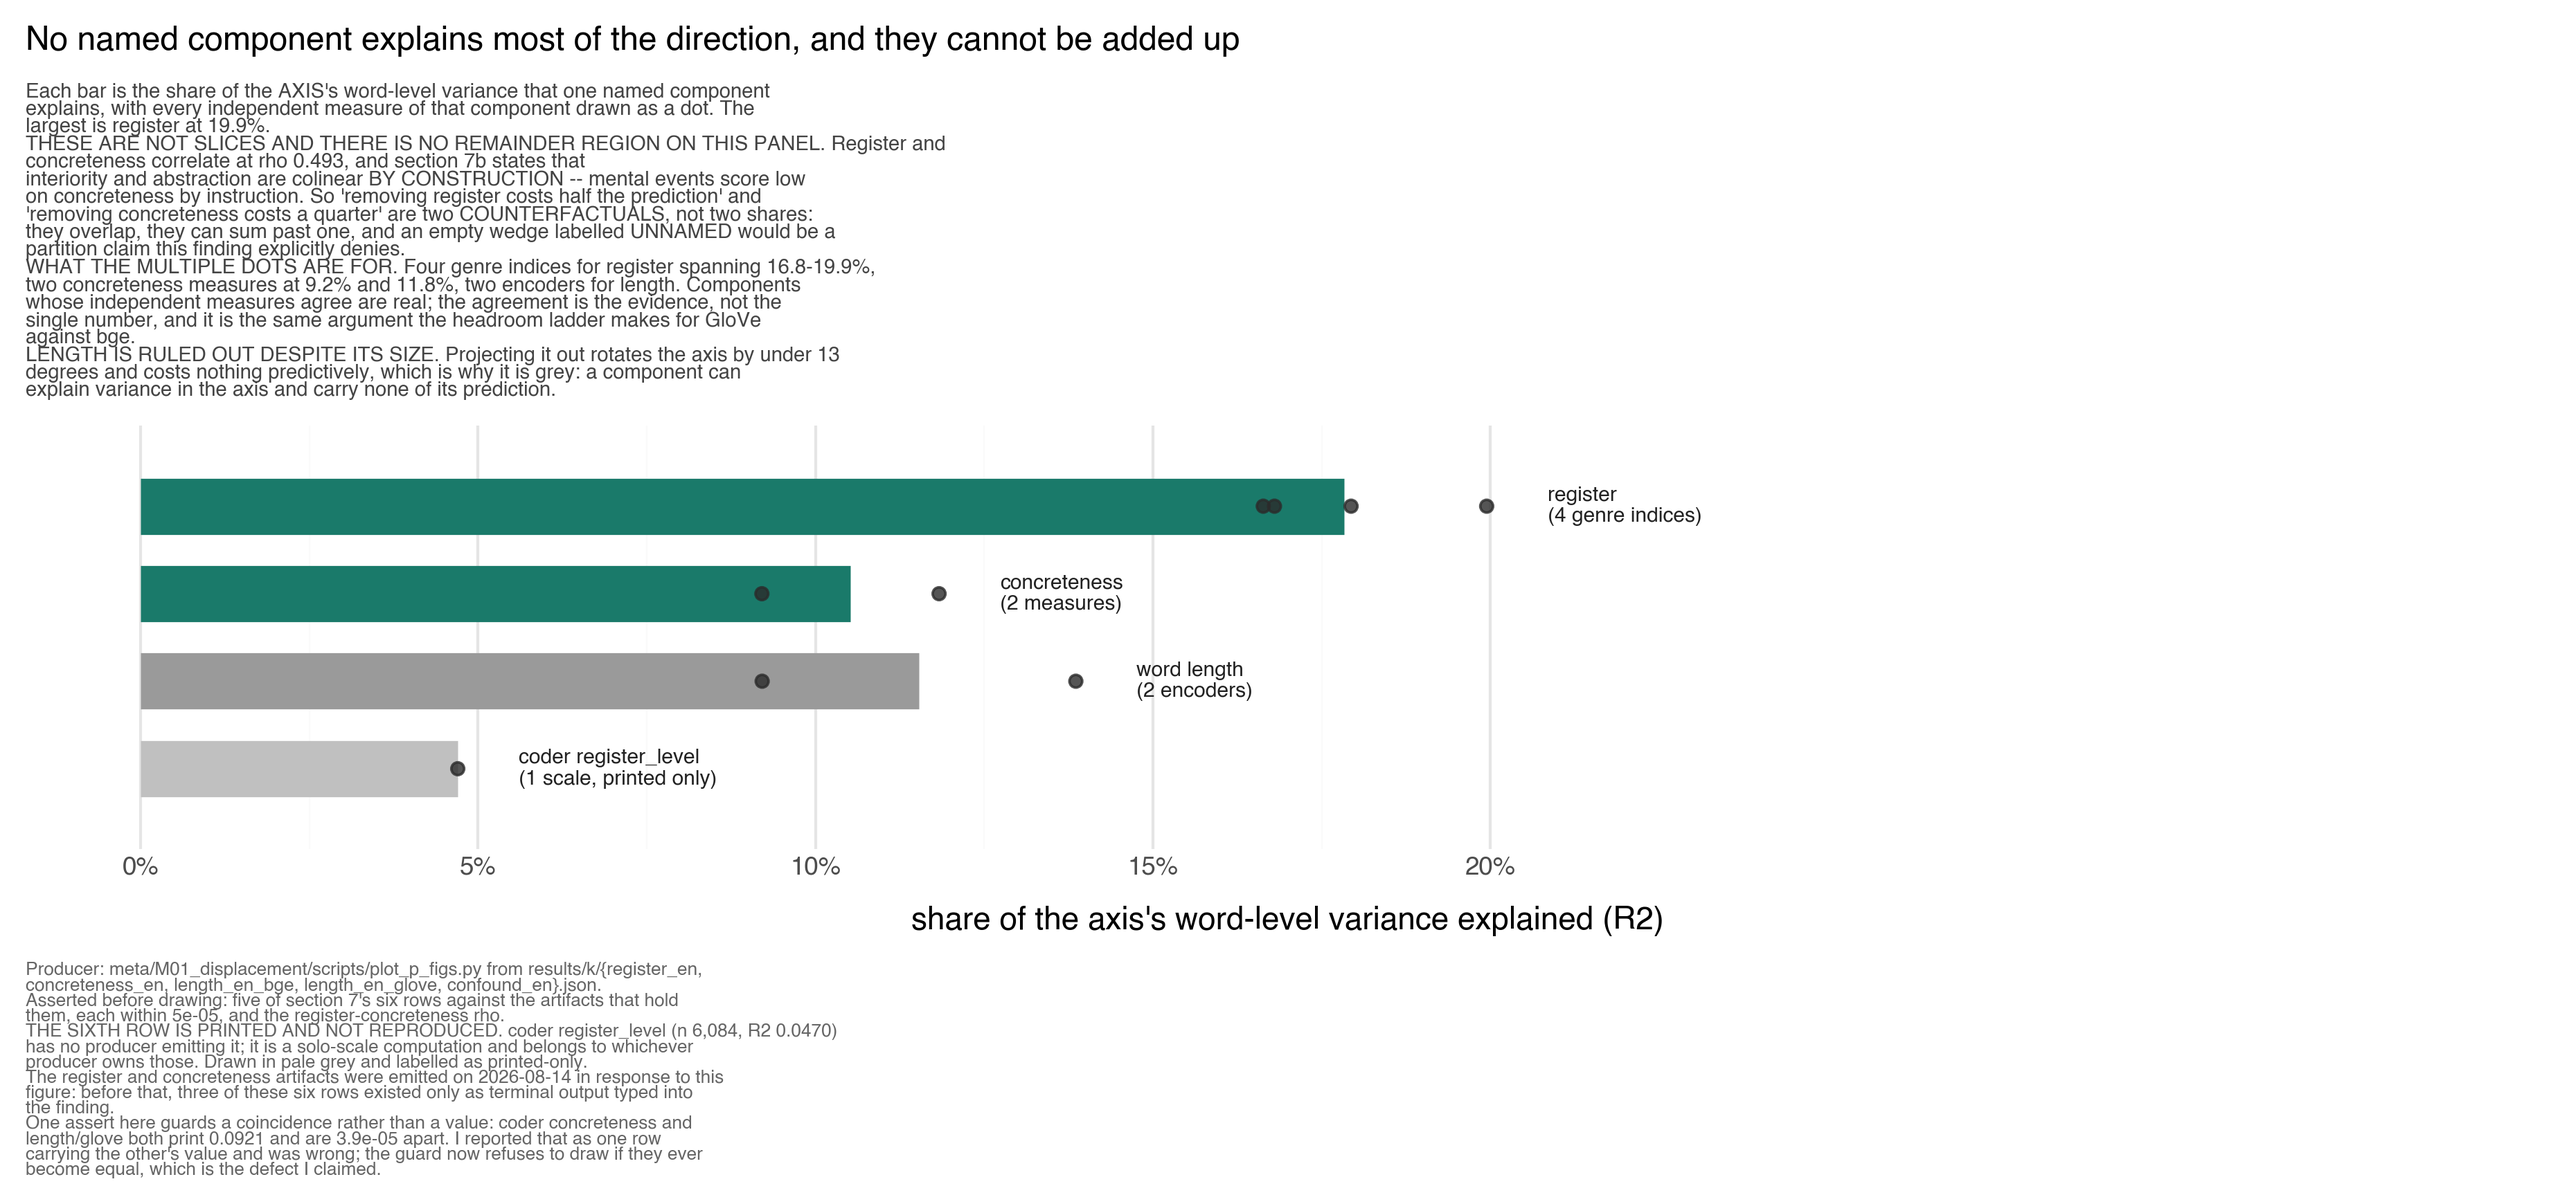
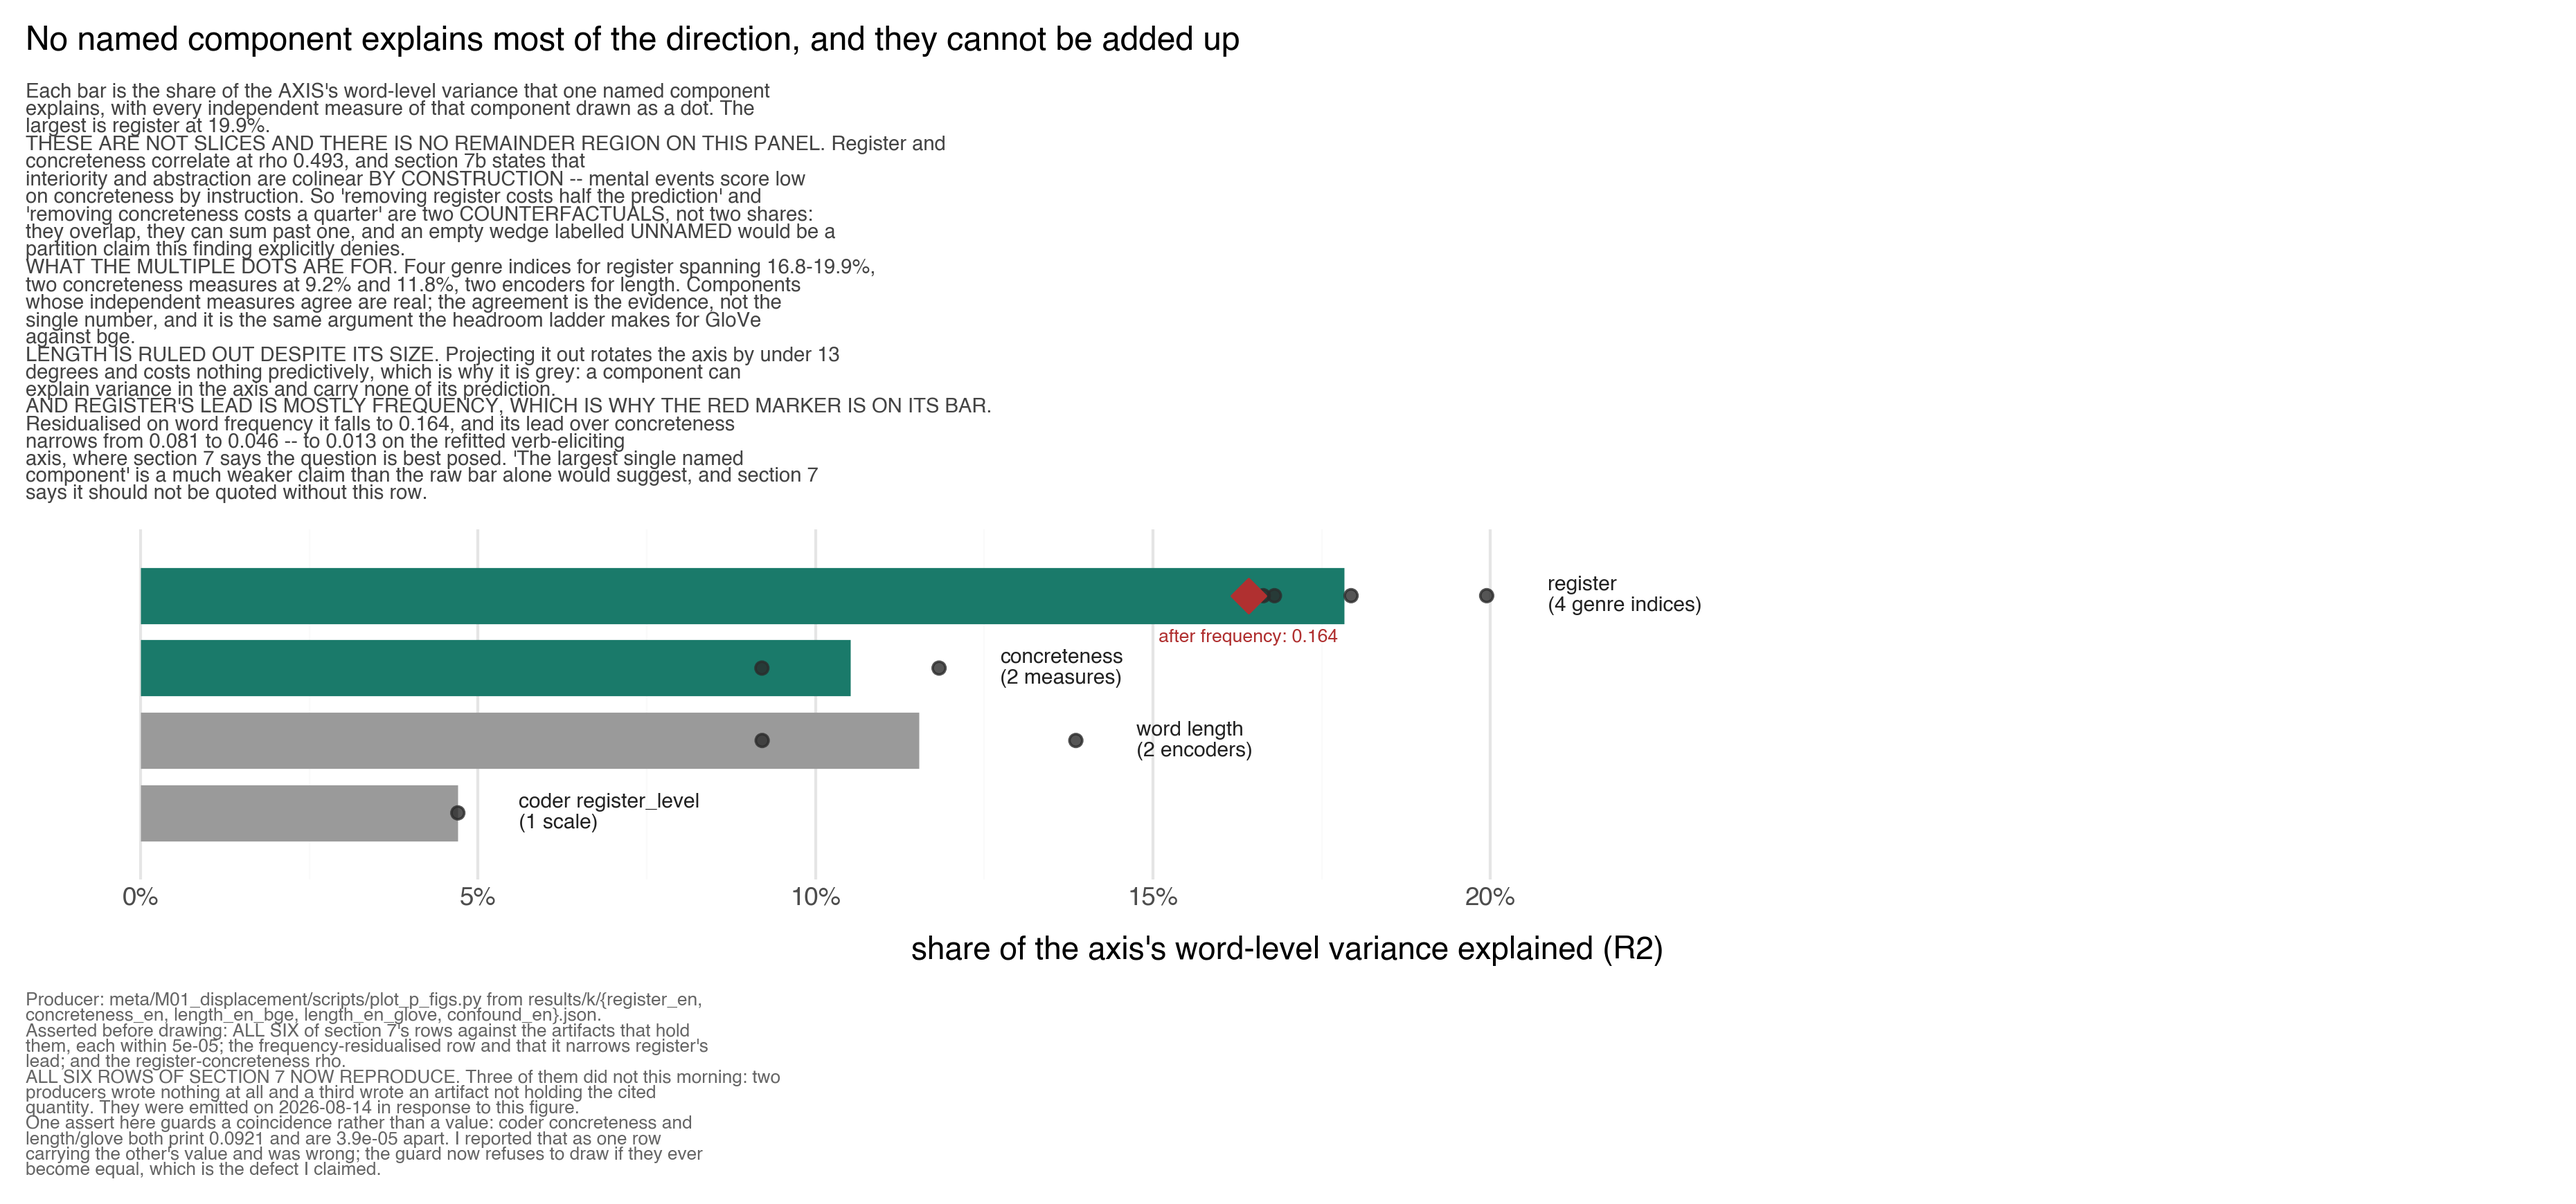
P ledger: six of six, and the frequency weld the entry required
Row 6 landed (malign, `register_decomp_en.json`): coder register_level n 6,084,
R2 0.047009, cos -0.16081, against section 7's printed 0.0470 and -0.161. Every
row of that table now reproduces from an artifact, where three of six did not
this morning.

THE [5606] WELD IS NOW ON THE BAR IT QUALIFIES
------------------------------------------------
The queue entry requires the frequency-residualised row welded on, and the
panel did not have it. `SUBTLEX resid on freq` reproduces at 0.164106 against
section 7's 0.1641, and it is drawn as a red marker on the register bar rather
than as a footnote.

It matters because it is most of register's lead. Raw, register leads
concreteness by 0.081; after frequency, by 0.046 -- and by 0.013 on the
refitted verb-eliciting axis, which section 7 says is where the question is
best posed. "The largest single named component" is a much weaker claim than
the raw bar alone suggests, and section 7 says it should not be quoted without
this row. Asserted: the residualised value, and that it narrows the lead.

Two rendering fixes, both found by reading the image: the weld label sat inside
the 11pt bar it annotated, and the caption still said five of six rows after
the sixth had landed.

diff --git a/meta/M01_displacement/scripts/plot_p_figs.py b/meta/M01_displacement/scripts/plot_p_figs.py
@@ -611,9 +611,13 @@ BOOKED_7 = {"register": 0.1994, "brysbaert": 0.1183, "coder_conc": 0.0921,
             "length_bge": 0.1386, "length_glove": 0.0921, "coder_reg": 0.0470}
 #: measured in confound_en.json; the reason the bars are not stacked
 BOOKED_RHO_REG_CONC = 0.493
-#: §7 row 6 has no producer emitting it yet (malign, [6171]: it is a solo-scale
-#: computation belonging to whichever producer owns those, not to k_register).
-UNEMITTED = {"coder_reg"}
+#: THE [5606] WELD. §7: register-after-frequency leads concreteness by 0.046 on
+#: this axis and by 0.013 on the refitted verb-eliciting one, so "the largest
+#: single named component" is a much weaker claim on the population where the
+#: question is best posed and "should not be quoted without this row". The
+#: entry requires it welded on, so the register bar carries it as a second mark
+#: rather than a footnote.
+BOOKED_RESID = 0.1641
 
 
 def ledger():
@@ -626,6 +630,7 @@ def ledger():
 
     reg = json.load(open(os.path.join(K, "register_en.json")))["index_table"]
     con = json.load(open(os.path.join(K, "concreteness_en.json")))["measures"]
+    dec = json.load(open(os.path.join(K, "register_decomp_en.json")))["measures"]
     lbg = json.load(open(os.path.join(K, "length_en_bge.json")))
     lgl = json.load(open(os.path.join(K, "length_en_glove.json")))
     cnf = json.load(open(os.path.join(K, "confound_en.json")))
@@ -637,10 +642,11 @@ def ledger():
         ("coder_conc", con["coder concreteness"]["r2_axis"]),
         ("length_bge", lbg["r2_length"]),
         ("length_glove", lgl["r2_length"]),
+        ("coder_reg", dec["coder register_level"]["r2_axis"]),
     ]
     for name, got in checks:
         assert abs(got - BOOKED_7[name]) < 5e-5, \
-            f"{name}: artifact {got:.6f} vs §7's {BOOKED_7[name]}"
+            f"{name}: artifact {got:.6f} vs section 7's {BOOKED_7[name]}"
     #: THE COINCIDENCE THAT COST TWO SEATS AN HOUR, PINNED SO IT CANNOT
     #: SILENTLY BECOME A DUPLICATION. coder concreteness and length/glove both
     #: print 0.0921 and are 3.9e-05 apart; I read that as one row carrying the
@@ -651,6 +657,16 @@ def ledger():
         (f"coder-concreteness and length/glove R2 are {gap:.2e} apart; §7 "
          "prints both as 0.0921 and they are distinct quantities that happen "
          "to round together")
+
+    resid = dec["SUBTLEX resid on freq"]["r2_axis"]
+    assert abs(resid - BOOKED_RESID) < 5e-5, \
+        f"frequency-residualised register drifted: {resid:.6f} vs {BOOKED_RESID}"
+    #: the weld's whole point: the lead over concreteness narrows once
+    #: frequency comes out, and the panel must not show only the raw row
+    lead_raw = BOOKED_7["register"] - BOOKED_7["brysbaert"]
+    lead_res = resid - BOOKED_7["brysbaert"]
+    assert lead_res < lead_raw, \
+        "residualising frequency no longer narrows register's lead; the panel says it does"
 
     rho = cnf["bundle_rho"]["register index"]["concreteness"]
     assert abs(rho - BOOKED_RHO_REG_CONC) < 0.001, \
@@ -666,8 +682,8 @@ def ledger():
          "#1a7a6a", False),
         ("word length\n(2 encoders)",
          [lbg["r2_length"], lgl["r2_length"]], "#9a9a9a", False),
-        ("coder register_level\n(1 scale, printed only)",
-         [BOOKED_7["coder_reg"]], "#c0c0c0", True),
+        ("coder register_level\n(1 scale)",
+         [dec["coder register_level"]["r2_axis"]], "#9a9a9a", False),
     ]
     rows, pts = [], []
     for i, (lab, vals, col, unemitted) in enumerate(comps):
@@ -686,6 +702,14 @@ def ledger():
         ggplot()
         + geom_segment(df, aes(0, "y", xend="m", yend="y", color="col"), size=11)
         + geom_point(pd_pts, aes("r2", "y"), size=2.0, color="#2b2b2b", alpha=0.8)
+        #: THE WELD, ON THE BAR IT QUALIFIES
+        + geom_point(pd.DataFrame([{"r2": resid, "y": len(comps) - 1}]),
+                     aes("r2", "y"), size=4.2, color="#b03030", shape="D")
+        + geom_text(pd.DataFrame([{"r2": resid, "y": len(comps) - 1}]),
+                    aes("r2", "y", label=f'"after frequency: {resid:.3f}"'),
+                    #: -0.30 left the label inside the bar it annotates; the segment
+                    #: is 11pt so it needs clearing properly.
+                    size=6.4, color="#b03030", va="top", nudge_y=-0.46)
         + geom_text(df, aes("lx", "y", label="lab"), size=7.2, ha="left",
                     nudge_x=0.009, color="#222222", lineheight=1.15)
         + scale_color_identity()
@@ -713,19 +737,24 @@ def ledger():
                 "against bge.\n"
                 "LENGTH IS RULED OUT DESPITE ITS SIZE. Projecting it out rotates the axis by under 13\n"
                 "degrees and costs nothing predictively, which is why it is grey: a component can\n"
-                "explain variance in the axis and carry none of its prediction."),
+                "explain variance in the axis and carry none of its prediction.\n"
+                "AND REGISTER'S LEAD IS MOSTLY FREQUENCY, WHICH IS WHY THE RED MARKER IS ON ITS BAR.\n"
+                f"Residualised on word frequency it falls to {resid:.3f}, and its lead over concreteness\n"
+                f"narrows from {lead_raw:.3f} to {lead_res:.3f} -- to 0.013 on the refitted verb-eliciting\n"
+                "axis, where section 7 says the question is best posed. 'The largest single named\n"
+                "component' is a much weaker claim than the raw bar alone would suggest, and section 7\n"
+                "says it should not be quoted without this row."),
             x="share of the axis's word-level variance explained (R2)", y="",
             caption=(
                 "Producer: meta/M01_displacement/scripts/plot_p_figs.py from results/k/{register_en,\n"
                 "concreteness_en, length_en_bge, length_en_glove, confound_en}.json.\n"
-                "Asserted before drawing: five of section 7's six rows against the artifacts that hold\n"
-                "them, each within 5e-05, and the register-concreteness rho.\n"
-                "THE SIXTH ROW IS PRINTED AND NOT REPRODUCED. coder register_level (n 6,084, R2 0.0470)\n"
-                "has no producer emitting it; it is a solo-scale computation and belongs to whichever\n"
-                "producer owns those. Drawn in pale grey and labelled as printed-only.\n"
-                "The register and concreteness artifacts were emitted on 2026-08-14 in response to this\n"
-                "figure: before that, three of these six rows existed only as terminal output typed into\n"
-                "the finding.\n"
+                "Asserted before drawing: ALL SIX of section 7's rows against the artifacts that hold\n"
+                "them, each within 5e-05; the frequency-residualised row and that it narrows register's\n"
+                "lead; and the register-concreteness rho.\n"
+                "ALL SIX ROWS OF SECTION 7 NOW REPRODUCE. Three of them did not this morning: two\n"
+                "producers wrote nothing at all and a third wrote an artifact not holding the cited\n"
+                "quantity. They were emitted on 2026-08-14 in response to this figure.\n"
+
                 "One assert here guards a coincidence rather than a value: coder concreteness and\n"
                 "length/glove both print 0.0921 and are 3.9e-05 apart. I reported that as one row\n"
                 "carrying the other's value and was wrong; the guard now refuses to draw if they ever\n"
